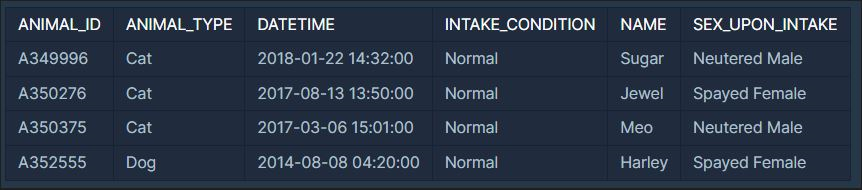
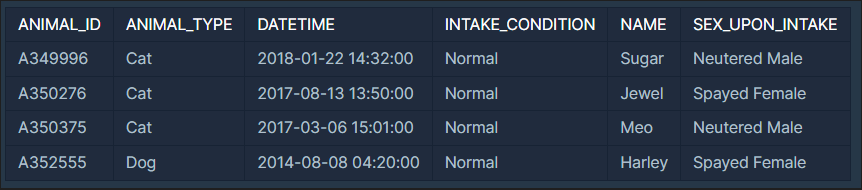
commit

diff --git a/codingtest-pro_sql_1.html b/codingtest-pro_sql_1.html
@@ -229,7 +229,7 @@ into the {body} of the default.hbs template -->
 
 <p>동물 보호소에 들어온 모든 동물의 정보를 ANIMAL_ID순으로 조회하는 SQL문을 작성해주세요. (SQL을 실행하면 다음과 같이 출력되어야 합니다.)</p>
 
-<p><img src="\post_images\codingtest\pro1_sql_2.png" /></p>
+<p><img src="\post_images\codingtest\pro1_sql_2.PNG" width="100%" /></p>
 
 <ul>
   <li><strong>풀이 방법</strong></li>
